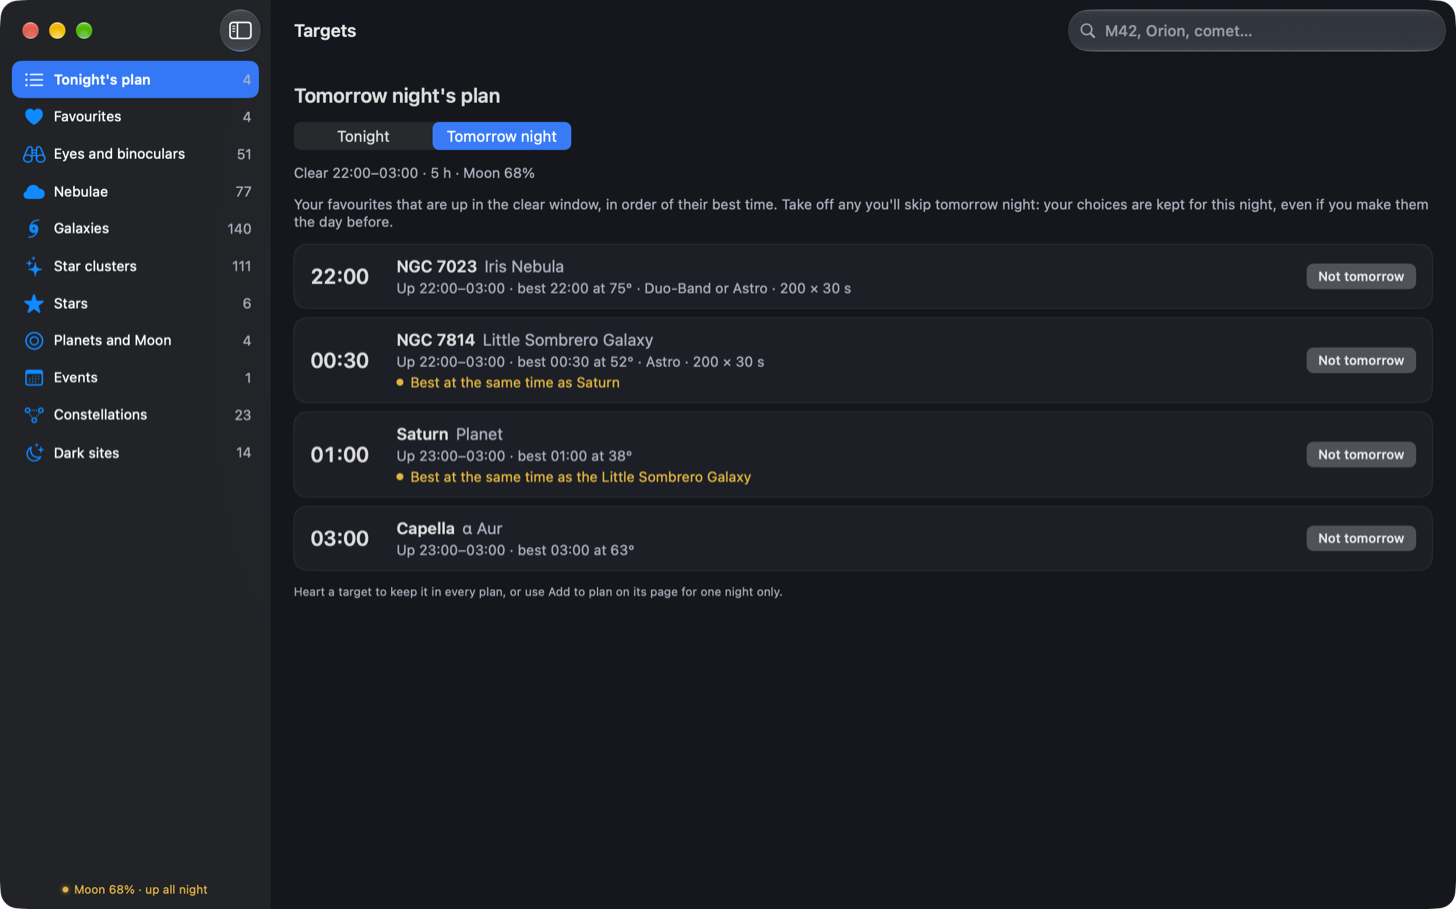
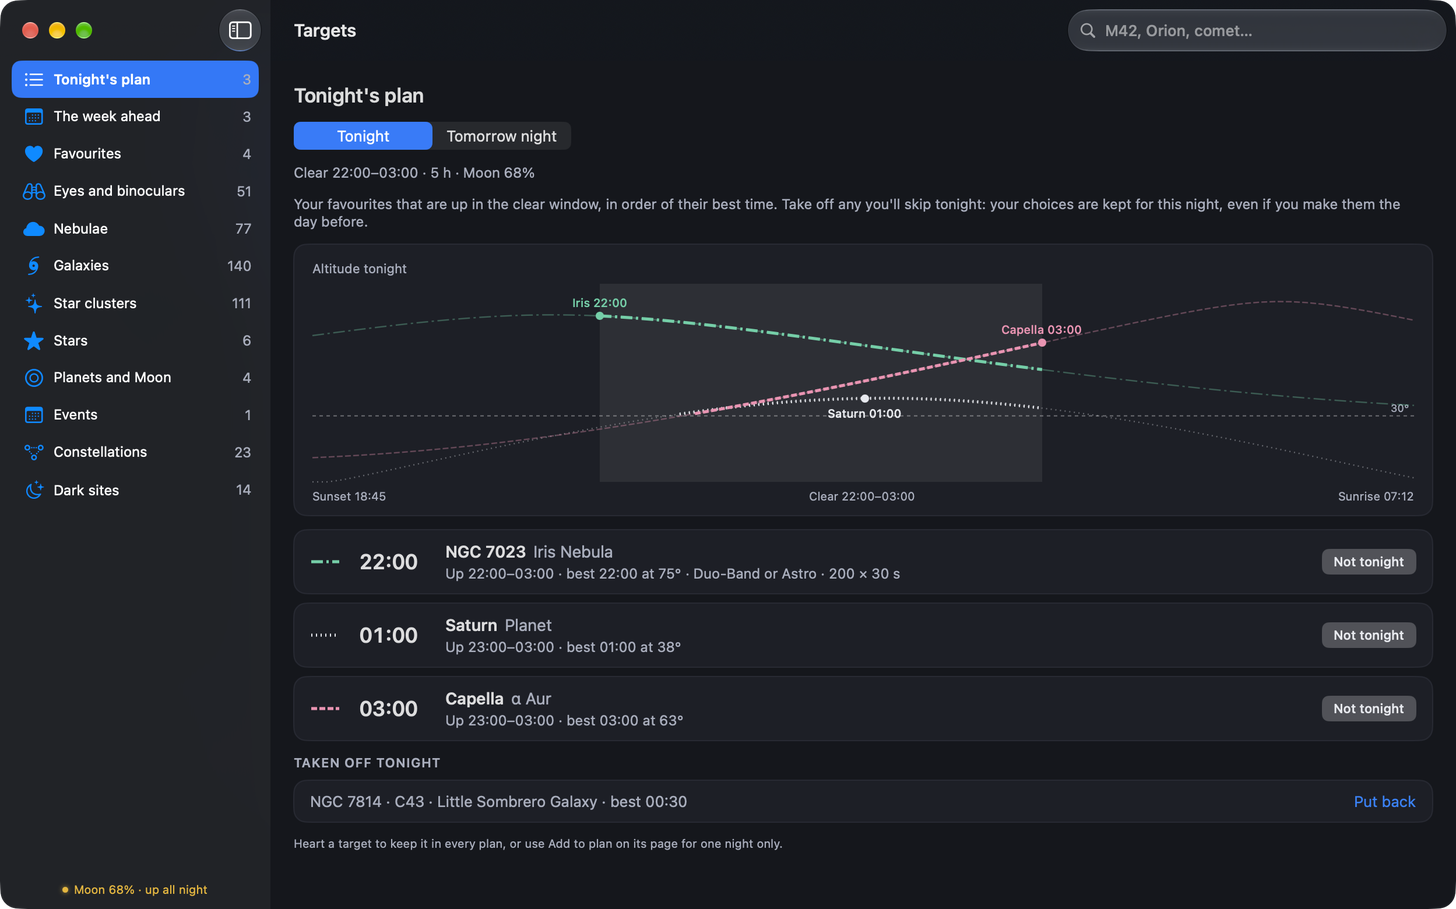
Horizon caption wraps in full; README shows the plan chart, the horizon and an event page (#112)
The dial's caption ended "Grey is…" once the hills line was added; it now wraps. New
screenshots from the Malham site: Tonight's plan with its altitude chart (replacing the old
plan image), the horizon with its hills, and the Southern Taurids page with Add to Calendar.

diff --git a/Sources/Nightwatch/Views/HorizonSheet.swift b/Sources/Nightwatch/Views/HorizonSheet.swift
@@ -26,6 +26,7 @@ struct HorizonSheet: View {
                     HorizonDial(heights: heights, openDeg: openDeg, terrain: terrain).frame(width: 220, height: 220)
                     Text("Seen from above, north at the top. Grey is blocked\(terrain == nil ? "" : "; brown at the edge is the hills"); the dashed ring is \(Int(openDeg))°.")
                         .font(.caption2).foregroundStyle(Theme.dim).multilineTextAlignment(.center).frame(width: 220)
+                        .fixedSize(horizontal: false, vertical: true)   // wraps in full rather than ending "Grey is…"
                 }
                 .accessibilityElement(children: .ignore)
                 .accessibilityLabel(Copy.horizonSummary(edited, openDeg: openDeg))

diff --git a/README.md b/README.md
@@ -14,9 +14,9 @@ Silent macOS menu-bar app: tells you when tonight is clear enough for a long ima
 
 Taken with version 1.1 and a DWARF Mini, observing from two public dark-sky places: the North York Moors International Dark Sky Reserve (the popover, widgets and the week ahead) and the Malham National Park car park in the Yorkshire Dales Dark Sky Reserve (the rest of the Targets window).
 
-**Tonight's plan:** your favourites that are up in the clear window, in order of their best time, with your telescope's filter and frames. Two best at the same time are marked, so you can choose; take one off for the night, and the choice is kept.
+**Tonight's plan:** your favourites that are up in the clear window, in order of their best time, with your telescope's filter and frames, and one altitude chart showing where each is through the night. Two best at the same time are marked, so you can choose; take one off for the night, and the choice is kept.
 
-<img src="docs/images/screenshot-plan.png" width="728" alt="Tomorrow night's plan, clear 22:00 to 03:00: the Iris Nebula at 22:00, the Little Sombrero Galaxy at 00:30 and Saturn at 01:00, both marked as best at the same time, and Capella at 03:00, each with a Not tomorrow button">
+<img src="docs/images/screenshot-plan.png" width="728" alt="Tonight's plan, clear 22:00 to 03:00: an altitude chart with one patterned line per target, named at its best time, above the rows for the Iris Nebula at 22:00, Saturn at 01:00 and Capella at 03:00, and the Little Sombrero Galaxy taken off for the night">
 
 **The week ahead:** up to ten nights in date order, each with its clear window or longest clear run, darkness and the Moon, so the best night of the week is easy to pick. Cloud from three days out is marked "Less certain".
 
@@ -37,6 +37,14 @@ Taken with version 1.1 and a DWARF Mini, observing from two public dark-sky plac
 **Dark sites:** darker places nearby, scored for tonight against home, each with a map and Open in Maps.
 
 <img src="docs/images/screenshot-dark-sites.png" width="728" alt="Dark sites within 50 km of Malham: Gisburn Forest Hub, Slaidburn visitor car park, Euro Car Parks near Burnsall and Buckden National Park Car Park, each with a map, its score against home, distance, direction and darkness">
+
+**Your horizon:** how high houses, trees or hills block the sky in each direction, with the hills found from terrain data.
+
+<img src="docs/images/screenshot-horizon.png" width="600" alt="The horizon at the Malham National Park car park: a dial of the sky seen from above with the hills as a thin brown band, each direction at open sky with the hills' height noted, and Hills reach 7 degrees to the N, NE and NW, 6 to the W, so nothing changes">
+
+**Events:** meteor showers, eclipses, close pairs, comets and space station passes, each with when and where to look, and Add to Calendar.
+
+<img src="docs/images/screenshot-event.png" width="728" alt="The Southern Taurids page: the bull of Taurus drawn over its stars, the peak night of 4 to 5 November with the radiant's best time, the rate and the Moon, and How to shoot this and Add to Calendar buttons">
 
 **Desktop widgets:** small, medium and large.
 
